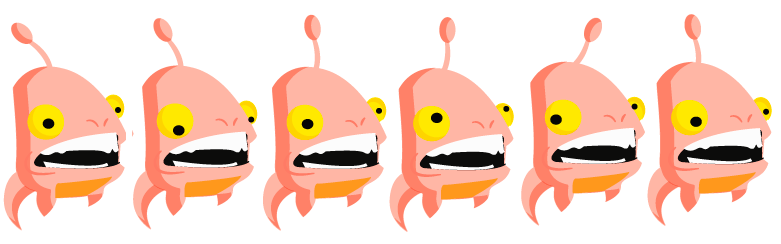
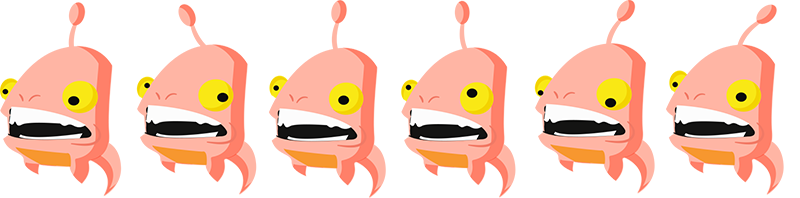
Avance
trabajando en el nivel 1

diff --git a/app/src/main/java/mx/itesm/monsterkiller/EscenaNvl1.java b/app/src/main/java/mx/itesm/monsterkiller/EscenaNvl1.java
@@ -117,7 +117,7 @@ public class EscenaNvl1 extends EscenaBase implements IAccelerationListener{
         regionBateria0 = cargarImagen("Empty.png");
 
         //Monstruos
-        regionMonstruo1 = cargarImagenMosaico("Monster1.png", 781,244,1,6 );
+        regionMonstruo1 = cargarImagenMosaico("Monster1.png", 800,198,1,6 );
 
         //Osito
         regionOsito = cargarImagen("bolita.png");
